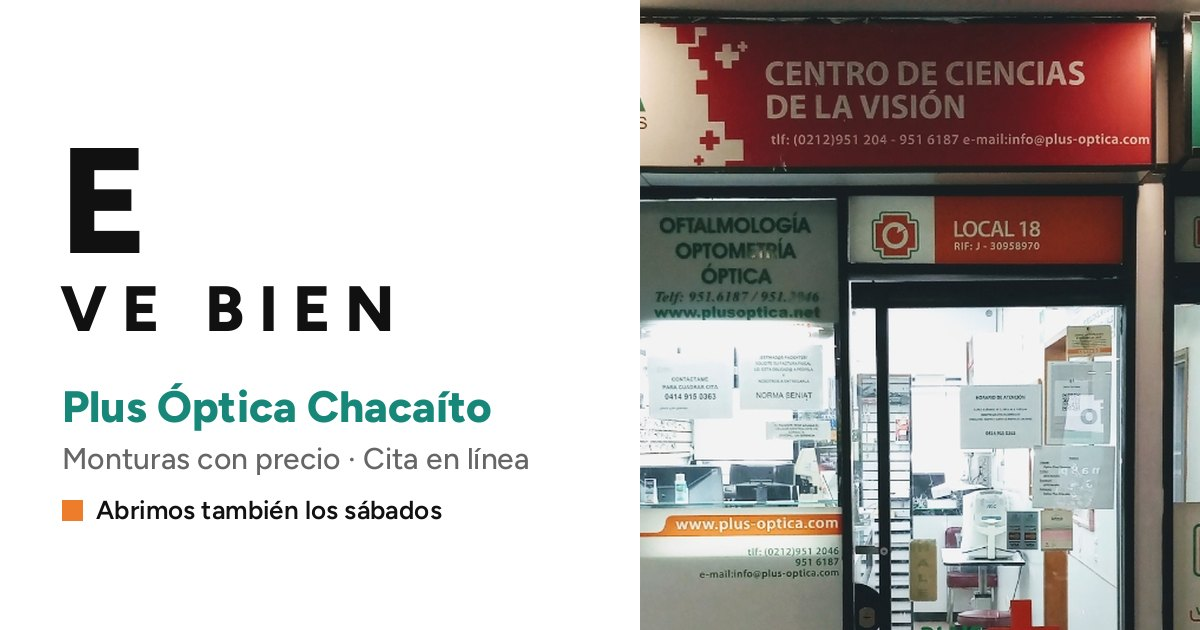
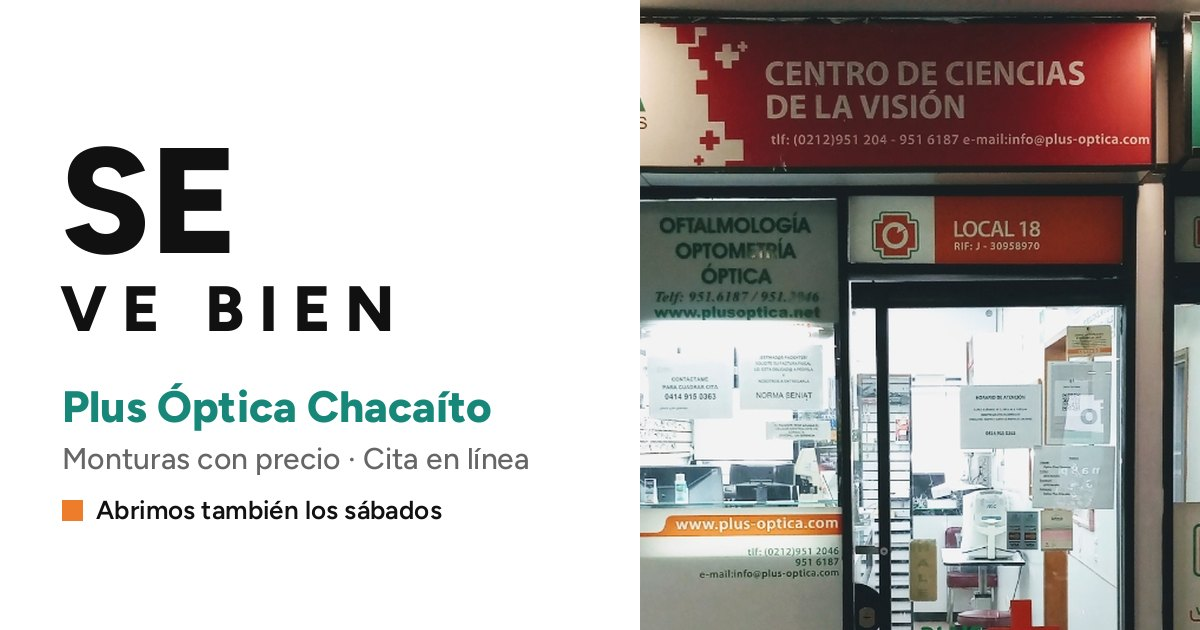
Fidelidad con lo que hace cada negocio, SE VE BIEN y mapa en teléfono

Changed region(s): [[0.0308, 0.2111, 0.2158, 0.4222]]

diff --git a/compincheria/index.html b/compincheria/index.html
@@ -95,6 +95,7 @@ h2{font-size:clamp(2.3rem,6.6vw,4.4rem);line-height:.92;margin-bottom:18px;text-
 .platos span{color:var(--gris);font-size:.93rem;grid-column:1}
 .platos em{font-style:normal;font-weight:600;color:var(--verde2);white-space:nowrap;grid-row:1;grid-column:2;align-self:start;border:1.5px solid var(--verde);border-radius:999px;padding:1px 10px;font-size:.85rem}
 .carta-foto{position:sticky;top:80px}
+@media(max-width:899px){.carta-foto{position:static;width:min(72%,320px);margin:0 auto}}
 .carta-foto .pola{rotate:2deg}
 .pola{background:#fff;padding:12px 12px 44px;box-shadow:0 2px 0 rgba(0,0,0,.08);position:relative}
 .pola div{overflow:hidden;aspect-ratio:4/5}
@@ -182,7 +183,8 @@ h2{font-size:clamp(2.3rem,6.6vw,4.4rem);line-height:.92;margin-bottom:18px;text-
 .horario li.hoy span:first-child:before{content:"Hoy · "}
 dt{font-weight:600;margin-top:16px}
 dd{color:rgba(241,228,207,.85)}
-.mapa{margin-top:44px;border:2px solid var(--crema);border-radius:7px;overflow:hidden;aspect-ratio:16/7;min-height:300px}
+.mapa{margin-top:44px;border:2px solid var(--crema);border-radius:7px;overflow:hidden;height:320px}
+@media(min-width:800px){.mapa{height:auto;aspect-ratio:16/7}}
 .mapa iframe{display:block;width:100%;height:100%;border:0}
 footer{padding:30px 0 90px;font-size:.9rem;color:var(--gris)}
 .demo{margin-top:10px}
@@ -202,6 +204,18 @@ footer{padding:30px 0 90px;font-size:.9rem;color:var(--gris)}
 .bs-total{display:block;font-size:.85rem;opacity:.85;margin-top:4px}
 .hh-cuenta{display:inline-flex;align-items:center;gap:10px;font-weight:600;color:var(--verde);border:2px solid var(--verde);border-radius:7px;padding:10px 14px;margin:-6px 0 26px}
 .hh-cuenta b{font-family:'Bowlby One',sans-serif;font-weight:400}
+.tamanos{grid-template-columns:repeat(2,1fr)}
+@media(min-width:560px){.tamanos{grid-template-columns:repeat(4,1fr)}}
+.proteina{display:grid;grid-template-columns:1fr 1fr;gap:10px;margin-top:10px}
+.proteina button{all:unset;box-sizing:border-box;cursor:pointer;border:2px solid var(--crema);border-radius:7px;padding:10px 12px}
+.proteina button b{display:block;font-weight:600}
+.proteina button span{display:block;font-size:.8rem;opacity:.85}
+.proteina button[aria-pressed="true"]{background:var(--crema);color:var(--verde2)}
+.proteina button:disabled{opacity:.4;cursor:not-allowed}
+.proteina button:focus-visible{outline:3px solid var(--crema);outline-offset:3px}
+.combo-incl{margin-top:12px;font-size:.92rem;border-left:3px solid var(--crema);padding-left:12px}
+.aparte{margin-top:18px;font-size:.88rem;opacity:.85}
+[hidden]{display:none!important}
 </style>
 </head>
 <body>
@@ -219,7 +233,7 @@ footer{padding:30px 0 90px;font-size:.9rem;color:var(--gris)}
 
 <header class="portada" id="inicio">
   <img src="f/terraza.webp" alt="Terraza de Compinchería de noche, con el letrero iluminado" width="1100" height="825">
-  <div class="top"><small>Altamira · Caracas</small><nav aria-label="Atajos"><a class="btn linea" href="#carta">Carta</a><a class="btn" href="#mesa">Reservar</a></nav></div>
+  <div class="top"><small>Altamira · Caracas</small><nav aria-label="Atajos"><a class="btn linea" href="#carta">Carta</a><a class="btn" href="#mesa">Pedir mesa</a></nav></div>
   <div class="sello">
     <div class="pildora display"><h1>Compinchería</h1></div>
     <span class="sub-sello">PINCHOS · BAR</span>
@@ -228,7 +242,7 @@ footer{padding:30px 0 90px;font-size:.9rem;color:var(--gris)}
   <div class="abajo">
     <a class="btn" href="#carta">Ver la carta</a>
     <a class="btn linea" href="#bandeja">Arma tu bandeja</a>
-    <a class="btn linea" href="#mesa">Reservar mesa</a>
+    <a class="btn linea" href="#mesa">Pedir mesa</a>
     <p class="estado" id="estado" aria-live="polite"><i aria-hidden="true"></i><span>4,8 en Google · 738 opiniones</span></p>
   </div>
 </header>
@@ -260,10 +274,13 @@ footer{padding:30px 0 90px;font-size:.9rem;color:var(--gris)}
       <p class="lead" style="margin-bottom:0">Elige cuántos pinchos, tus sides y tus salsas. La bandeja se llena mientras eliges y te dice el total.</p>
     </div>
     <div class="ar-c">
-      <div class="paso"><h3>1. ¿Cuántos pinchos? <small>mixtos de carne, cerdo y pollo</small></h3>
-        <div class="tamanos" role="group" aria-label="Cantidad de pinchos" id="tamanos"></div></div>
-      <div class="paso"><h3>2. Sides <small id="sidesInfo"></small></h3><div class="fichas" id="sides"></div></div>
-      <div class="paso"><h3>3. Salsas de la casa <small id="salsasInfo"></small></h3><div class="fichas" id="salsas"></div></div>
+      <div class="paso"><h3>1. ¿Qué bandeja? <small>las medidas de su carta</small></h3>
+        <div class="tamanos" role="group" aria-label="Tamaño de la bandeja" id="tamanos"></div>
+        <p class="combo-incl" id="comboIncluye" hidden></p></div>
+      <div class="paso"><h3>2. ¿Qué pinchos?</h3><div class="proteina" role="group" aria-label="Tipo de pinchos" id="proteina"></div></div>
+      <div class="paso" id="pasoSides"><h3>3. Sides <small id="sidesInfo"></small></h3><div class="fichas" id="sides"></div></div>
+      <div class="paso" id="pasoSalsas"><h3>4. Salsas de la casa <small id="salsasInfo"></small></h3><div class="fichas" id="salsas"></div></div>
+      <p class="aparte">Las burgers, alitas y demás platos de la carta no van en la bandeja: se piden aparte. Escríbelos en el mensaje.</p>
       <div class="total"><div><b id="total" aria-live="polite">REF 13</b><small class="bs-total" id="totalBs"></small><p id="resumen">x5 pinchos mixtos.</p></div><a class="btn" id="pedirBandeja" href="https://wa.me/PON_AQUI_EL_NUMERO">Pedir por WhatsApp</a></div>
     </div>
     <div class="ar-b">
@@ -279,7 +296,7 @@ footer{padding:30px 0 90px;font-size:.9rem;color:var(--gris)}
       <h2 id="mesa-t2" class="display">Al centro de la mesa.</h2>
       <p class="lead">Bandejas metálicas, papel con su nombre y todo para compartir. Terraza, happy hour en sus mesas y asientos accesibles para silla de ruedas.</p>
       <p class="hh-cuenta" id="hhCuenta" aria-live="polite"></p>
-      <a class="btn verde" href="#mesa">Reservar mesa</a>
+      <a class="btn verde" href="#mesa">Pedir mesa</a>
     </div>
     <div class="muro">
       <figure class="pola a"><div><img src="f/bandeja.webp" alt="Bandeja con pinchos de pollo, papas, ensaladas y salsas" width="1100" height="825" loading="lazy"></div><p>La bandeja para compartir</p></figure>
@@ -292,8 +309,8 @@ footer{padding:30px 0 90px;font-size:.9rem;color:var(--gris)}
 <section id="mesa" aria-labelledby="mesa-t">
   <div class="wrap comanda-sec">
     <div class="comanda">
-      <h2 id="mesa-t" class="display" style="color:var(--verde)">Reserva tu mesa.</h2>
-      <p class="lead">Dinos cuántos compinches vienen y a qué hora. Te confirmamos por WhatsApp.</p>
+      <h2 id="mesa-t" class="display" style="color:var(--verde)">Pide tu mesa.</h2>
+      <p class="lead">Dinos cuántos compinches vienen y a qué hora. El local te confirma por WhatsApp si hay mesa.</p>
       <div class="paso"><h3>¿Cuántos compinches?</h3>
         <div class="contador"><button type="button" id="menos" aria-label="Una persona menos">−</button><output id="cuantos" aria-live="polite">4</output><button type="button" id="mas" aria-label="Una persona más">+</button></div>
         <div class="gente" id="gente" aria-hidden="true"></div></div>
@@ -305,7 +322,7 @@ footer{padding:30px 0 90px;font-size:.9rem;color:var(--gris)}
     </div>
     <aside class="ticket" aria-label="Resumen de tu reserva">
       <p class="display">Compinchería</p>
-      <p class="sub">COMANDA DE MESA</p>
+      <p class="sub">SOLICITUD DE MESA</p>
       <dl>
         <div><dt>Compinches</dt><dd id="tCuantos">4 personas</dd></div>
         <div><dt>Día</dt><dd id="tDia">Elige un día</dd></div>
@@ -313,7 +330,7 @@ footer{padding:30px 0 90px;font-size:.9rem;color:var(--gris)}
         <div><dt>Ocasión</dt><dd id="tOcasion">Sin indicar</dd></div>
         <div><dt>A nombre de</dt><dd id="tNom">Sin indicar</dd></div>
       </dl>
-      <a class="btn verde" id="confirmar" href="https://wa.me/PON_AQUI_EL_NUMERO" aria-disabled="true">Confirmar por WhatsApp</a>
+      <a class="btn verde" id="confirmar" href="https://wa.me/PON_AQUI_EL_NUMERO" aria-disabled="true">Pedir mesa por WhatsApp</a>
       <p class="nota">Demostración: no se envía ningún dato. En la página final la comanda le llega al local.</p>
     </aside>
   </div>
@@ -423,13 +440,19 @@ footer{padding:30px 0 90px;font-size:.9rem;color:var(--gris)}
   CARTA.forEach(function(c,i){var b=el('button','',c.n);b.type='button';b.setAttribute('aria-pressed',i===0?'true':'false');b.addEventListener('click',function(){pest.querySelectorAll('button').forEach(function(x){x.setAttribute('aria-pressed',x===b?'true':'false')});verCat(c);});pest.appendChild(b);});
   verCat(CARTA[0]);
 
-  /* Arma tu bandeja con tamaños, sides y salsas reales */
-  var TAM=[{n:5,p:13,personas:'1 persona',sides:1,salsas:2},{n:9,p:22,personas:'2 personas',sides:2,salsas:3},{n:15,p:35,personas:'3 o 4 personas',sides:3,salsas:4}];
+  /* Arma tu bandeja: solo lo que permite su carta de febrero 2026.
+     Medidas fijas x5, x9, x15 o la Bandeja Compin (combo cerrado). Pinchos mixtos; todos de carne solo con precio a consultar.
+     Las burgers y demás platos no van en la bandeja: se piden aparte. */
+  var TAM=[{t:'x5',n:5,p:13,personas:'1 persona',sides:1,salsas:2},{t:'x9',n:9,p:22,personas:'2 personas',sides:2,salsas:3},{t:'x15',n:15,p:35,personas:'3 o 4 personas',sides:3,salsas:4},
+           {t:'Compin',n:9,p:30,personas:'3 personas',combo:true}];
+  var COMBO_INCL='9 pinchos mixtos, mini tenders de pollo, aros de cebolla, papas fritas, ensalada César y coleslaw.';
   var SIDES=[['Papas fritas','s-papas'],['Aros de cebolla','s-aros'],['Ensalada César','s-cesar'],['Coleslaw','s-coleslaw']];
   var SALSAS=[['BBQ','#5A2E1A'],['Ajo','#F1EAD2'],['Mojo criollo','#E08A2E'],['Tocineta','#D9C79A'],['Ranch','#EDEBDD'],['Parrillera','#C2421E'],['Alemana','#E6E3C8'],['Mermelada de pimentón','#8E1B1B'],['Cheddar','#F2B33D'],['Teriyaki','#4A2A17'],['Guasacaca','#8FAE45'],['Mermelada de cebolla','#5B2B23']];
-  var t=TAM[0],cs={},csa={},prev={n:0,cs:{},csa:{}};
-  var tamanos=document.getElementById('tamanos'),sidesBox=document.getElementById('sides'),salsasBox=document.getElementById('salsas');
-  TAM.forEach(function(x,i){var b=document.createElement('button');b.type='button';b.setAttribute('aria-pressed',i===0?'true':'false');b.appendChild(el('b','','x'+x.n));b.appendChild(el('span','',x.personas+' · '+ref(x.p)));b.addEventListener('click',function(){t=x;tamanos.querySelectorAll('button').forEach(function(y){y.setAttribute('aria-pressed',y===b?'true':'false')});pintarB();});tamanos.appendChild(b);});
+  var t=TAM[0],prot='mixtos',cs={},csa={},prev={k:'',cs:{},csa:{}};
+  var tamanos=document.getElementById('tamanos'),protBox=document.getElementById('proteina'),sidesBox=document.getElementById('sides'),salsasBox=document.getElementById('salsas');
+  TAM.forEach(function(x,i){var b=document.createElement('button');b.type='button';b.setAttribute('aria-pressed',i===0?'true':'false');b.appendChild(el('b','',x.combo?'Compin':x.t));b.appendChild(el('span','',(x.combo?'Bandeja · ':'')+x.personas+' · '+ref(x.p)));b.addEventListener('click',function(){t=x;if(x.combo)prot='mixtos';tamanos.querySelectorAll('button').forEach(function(y){y.setAttribute('aria-pressed',y===b?'true':'false')});pintarB();});tamanos.appendChild(b);});
+  var PROT=[['mixtos','Mixtos','carne, cerdo y pollo'],['carne','Todos de carne','precio a consultar']];
+  function pintarProt(){protBox.innerHTML='';PROT.forEach(function(p){var b=document.createElement('button');b.type='button';b.setAttribute('aria-pressed',prot===p[0]?'true':'false');b.appendChild(el('b','',p[1]));b.appendChild(el('span','',p[2]));if(t.combo&&p[0]==='carne'){b.disabled=true;b.title='La Bandeja Compin viene con pinchos mixtos';}b.addEventListener('click',function(){prot=p[0];pintarB();});protBox.appendChild(b);});}
   function fichas(box,lista,obj){
     box.innerHTML='';
     lista.forEach(function(it){var k=it[0],n=obj[k]||0;var f=el('span','ficha'+(n?' on':''));f.appendChild(document.createTextNode(k));var m=el('button','','−');m.type='button';m.setAttribute('aria-label','Quitar '+k);m.disabled=!n;var p=el('button','','+');p.type='button';p.setAttribute('aria-label','Agregar '+k);
@@ -438,28 +461,38 @@ footer{padding:30px 0 90px;font-size:.9rem;color:var(--gris)}
   }
   function suma(o){var s=0;for(var k in o)s+=o[k];return s}
   function pintarB(){
+    pintarProt();
+    var combo=!!t.combo;
+    document.getElementById('pasoSides').hidden=combo;document.getElementById('pasoSalsas').hidden=combo;
+    var ci=document.getElementById('comboIncluye');ci.hidden=!combo;ci.textContent=combo?'Incluye: '+COMBO_INCL+' Las salsas se eligen al pedir.':'';
+    if(combo){cs={};csa={};}
     fichas(sidesBox,SIDES,cs);fichas(salsasBox,SALSAS,csa);
-    var ns=suma(cs),na=suma(csa),exS=Math.max(0,ns-t.sides),exA=Math.max(0,na-t.salsas);
-    document.getElementById('sidesInfo').textContent=t.sides+(t.sides>1?' incluidos':' incluido')+(exS?' · '+exS+' extra a REF 3':'');
-    document.getElementById('salsasInfo').textContent=t.salsas+' incluidas'+(exA?' · '+exA+' extra a REF 1':'');
+    var ns=suma(cs),na=suma(csa),exS=combo?0:Math.max(0,ns-t.sides),exA=combo?0:Math.max(0,na-t.salsas);
+    if(!combo){
+      document.getElementById('sidesInfo').textContent=t.sides+(t.sides>1?' incluidos':' incluido')+(exS?' · '+exS+' extra a REF 3':'');
+      document.getElementById('salsasInfo').textContent=t.salsas+' incluidas'+(exA?' · '+exA+' extra a REF 1':'');
+    }
+    var carne=prot==='carne'&&!combo;
     var total=t.p+exS*3+exA;
-    document.getElementById('total').textContent=ref(total);
-    document.getElementById('totalBs').textContent=TASA?'≈ '+bs(total)+' a tasa BCV':'';
-    var partes=['x'+t.n+' pinchos mixtos'];
+    document.getElementById('total').textContent=carne?'Precio a consultar':ref(total);
+    document.getElementById('totalBs').textContent=(!carne&&TASA)?'≈ '+bs(total)+' a tasa BCV':(carne?'El local te dice el precio de los pinchos de carne':'');
+    var partes=[combo?'Bandeja Compin':(t.t+' pinchos '+(carne?'todos de carne':'mixtos'))];
     SIDES.forEach(function(s){if(cs[s[0]])partes.push(cs[s[0]]+' × '+s[0].toLowerCase())});
     SALSAS.forEach(function(s){if(csa[s[0]])partes.push(csa[s[0]]+' × salsa '+s[0].toLowerCase())});
-    document.getElementById('resumen').textContent=partes.join(', ')+'.';
-    document.getElementById('pedirBandeja').href=WA+encodeURIComponent('Hola, quiero pedir: '+partes.join(', ')+'. Total aproximado '+ref(total)+'.');
-    document.getElementById('pieBandeja').textContent='x'+t.n+' pinchos · '+t.personas;
+    var faltan=combo?0:Math.max(0,t.sides-ns);
+    document.getElementById('resumen').textContent=partes.join(', ')+'.'+(faltan?' Te falta elegir '+faltan+(faltan>1?' sides incluidos.':' side incluido.'):'');
+    document.getElementById('pedirBandeja').href=WA+encodeURIComponent('Hola, quiero pedir: '+partes.join(', ')+'. '+(carne?'¿Qué precio tiene con todos los pinchos de carne?':'Total aproximado '+ref(total)+'.'));
+    document.getElementById('pieBandeja').textContent=(combo?'Bandeja Compin':t.t+' pinchos')+' · '+t.personas;
     var zp=document.getElementById('zonaP'),ze=document.getElementById('zonaE');zp.innerHTML='';ze.innerHTML='';
     zp.className='zona-pinchos'+(t.n>5?' muchos':'');
-    var tipos=['pincho-carne','pincho-pollo','pincho-cerdo'];
-    var cambioN=t.n!==prev.n,hubo=false;
-    for(var i=0;i<t.n;i++){var s=usar(tipos[i%3],'0 0 200 40',cambioN?'nuevo':'');if(cambioN)s.style.animationDelay=(i*22)+'ms';zp.appendChild(s);}
+    var tipos=carne?['pincho-carne']:['pincho-carne','pincho-pollo','pincho-cerdo'];
+    var clave=t.t+prot,cambio=clave!==prev.k,hubo=false;
+    for(var i=0;i<t.n;i++){var s=usar(tipos[i%tipos.length],'0 0 200 40',cambio?'nuevo':'');if(cambio)s.style.animationDelay=(i*22)+'ms';zp.appendChild(s);}
+    if(combo){['s-papas','s-aros','s-cesar','s-coleslaw'].forEach(function(id,j){var s=usar(id,'0 0 60 60',cambio?'nuevo':'');if(cambio)s.style.animationDelay=(200+j*60)+'ms';ze.appendChild(s);});}
     SIDES.forEach(function(sd){for(var j=0;j<(cs[sd[0]]||0);j++){var nv=j>=(prev.cs[sd[0]]||0);if(nv)hubo=true;ze.appendChild(usar(sd[1],'0 0 60 60',nv?'nuevo':''));}});
     SALSAS.forEach(function(sa){for(var j=0;j<(csa[sa[0]]||0);j++){var nv=j>=(prev.csa[sa[0]]||0);if(nv)hubo=true;var s=usar('s-salsa','0 0 60 60','salsa'+(nv?' nuevo':''));s.style.setProperty('--c',sa[1]);ze.appendChild(s);}});
-    if((hubo||cambioN)&&prev.n){var bj=document.querySelector('.bandeja');bj.classList.remove('golpe');void bj.offsetWidth;bj.classList.add('golpe');if(navigator.vibrate)try{navigator.vibrate(12)}catch(e){}}
-    prev={n:t.n,cs:JSON.parse(JSON.stringify(cs)),csa:JSON.parse(JSON.stringify(csa))};
+    if((hubo||cambio)&&prev.k){var bj=document.querySelector('.bandeja');bj.classList.remove('golpe');void bj.offsetWidth;bj.classList.add('golpe');if(navigator.vibrate)try{navigator.vibrate(12)}catch(e){}}
+    prev={k:clave,cs:JSON.parse(JSON.stringify(cs)),csa:JSON.parse(JSON.stringify(csa))};
   }
   pintarB();
 
@@ -525,13 +558,13 @@ footer{padding:30px 0 90px;font-size:.9rem;color:var(--gris)}
     document.getElementById('tNom').textContent=nom.value.trim()||'Sin indicar';
     var listo=!!(R.dia&&R.hora&&nom.value.trim().length>1&&/^[0-9+ ()-]{7,}$/.test(tel.value.trim()));
     conf.setAttribute('aria-disabled',listo?'false':'true');conf.style.opacity=listo?1:.5;
-    conf.href=WA+encodeURIComponent('Hola, quiero reservar una mesa para '+R.n+' el '+(R.dia?R.dia.txt:'')+' a las '+(R.hora||'')+(R.oc?' ('+R.oc+')':'')+'. A nombre de '+nom.value.trim()+'.');
+    conf.href=WA+encodeURIComponent('Hola, ¿tienen mesa para '+R.n+' el '+(R.dia?R.dia.txt:'')+' a las '+(R.hora||'')+(R.oc?' ('+R.oc+')':'')+'? A nombre de '+nom.value.trim()+'.');
   }
   conf.addEventListener('click',function(e){if(conf.getAttribute('aria-disabled')==='true'){e.preventDefault();e.stopImmediatePropagation();var f=!R.dia?document.querySelector('#dias button'):!R.hora?document.querySelector('#horas button'):nom.value.trim().length<2?nom:tel;if(f)f.focus();}},true);
   pintarGente();
 })();
 </script>
-<a class="flota" id="flota" href="#mesa">Reservar mesa</a>
+<a class="flota" id="flota" href="#mesa">Pedir mesa</a>
 <div class="nodo-franja" aria-hidden="true">Propuesta de diseño · <b>Fernando Romero</b></div>
 <div class="nodo-aviso" id="nodoAviso" role="status" aria-live="polite"></div>
 <script>

diff --git a/plus-optica-chacaito/index.html b/plus-optica-chacaito/index.html
@@ -134,7 +134,8 @@ footer{padding:30px 0 90px;color:var(--gris);font-size:.92rem}
 .mont .tipo{display:block;font-size:.72rem;letter-spacing:.12em;text-transform:uppercase;color:var(--gris);margin-top:14px}
 .mont .tipo+b{margin-top:2px}
 .mont.vacio .img{background:var(--blanco);border:1px dashed #BDBDBD;display:grid;place-items:center;text-align:center;padding:16px;color:var(--gris);font-size:.92rem}
-.mapa{margin-top:40px;border:1px solid var(--tinta);aspect-ratio:16/7;min-height:300px}
+.mapa{margin-top:40px;border:1px solid var(--tinta);height:320px}
+@media(min-width:800px){.mapa{height:auto;aspect-ratio:16/7}}
 .mapa iframe{display:block;width:100%;height:100%;border:0}
 .cita{display:grid;gap:0;border:1px solid var(--tinta)}
 @media(min-width:900px){.cita{grid-template-columns:1fr 1fr}}
@@ -210,8 +211,8 @@ footer{padding:30px 0 90px;color:var(--gris);font-size:.92rem}
   </div></nav>
   <div class="carta" id="inicio">
     <div class="carta-fija">
-      <div class="filas" id="filas" role="img" aria-label="Carta de la vista con las letras E, VE, BIEN, CON, PLUS, ÓPTICA">
-        <span class="f1">E</span><span class="f2">VE</span><span class="f3">BIEN</span><span class="f4">CON</span><span class="f5">PLUS</span><span class="f6">ÓPTICA</span>
+      <div class="filas" id="filas" role="img" aria-label="Carta de la vista que dice: se ve bien con Plus Óptica">
+        <span class="f1">SE</span><span class="f2">VE</span><span class="f3">BIEN</span><span class="f4">CON</span><span class="f5">PLUS</span><span class="f6">ÓPTICA</span>
       </div>
       <p class="pista" id="pista">Baja para enfocar ↓</p>
       <button class="lentes" type="button" id="lentes">Ponte los lentes</button>
@@ -240,7 +241,7 @@ footer{padding:30px 0 90px;color:var(--gris);font-size:.92rem}
   <div class="wrap">
     <p class="etq">Catálogo</p>
     <h2 id="mont">Elige tu montura antes de venir.</h2>
-    <p class="lead">Todas las monturas de la óptica, separadas por tipo y con su precio. Aparta la que te guste y pruébatela en el local.</p>
+    <p class="lead">Todas las monturas de la óptica, separadas por tipo y con su precio. Pregunta por la que te guste y pruébatela en el local.</p>
     <div class="filtros" role="group" aria-label="Tipo de montura" id="filtros"></div>
     <div class="orden"><span id="cuantas" aria-live="polite"></span><button type="button" id="ordenar" aria-pressed="false">Ordenar por precio</button></div>
     <div class="rejilla" id="catalogo"></div>
@@ -403,7 +404,7 @@ a.classList.add('ver');clearTimeout(t);t=setTimeout(function(){a.classList.remov
     lista.forEach(function(m){
       var d=el('div','mont');var im=el('div','img');var i=document.createElement('img');i.src=m.f;i.alt=m.a;i.loading='lazy';im.appendChild(i);d.appendChild(im);
       d.appendChild(el('span','tipo',m.t.map(nombreTipo).join(' · ')));d.appendChild(el('b','',m.n));
-      var f=el('div','fila');f.appendChild(el('small','',m.p==null?'Consultar precio':'$'+m.p));var a=el('a','apartar','Apartar');a.href=WA+encodeURIComponent((m.p==null?'Hola, ¿qué precio tiene la montura ':'Hola, quiero apartar la montura ')+m.n);f.appendChild(a);d.appendChild(f);
+      var f=el('div','fila');f.appendChild(el('small','',m.p==null?'Consultar precio':'$'+m.p));var a=el('a','apartar','Preguntar');a.href=WA+encodeURIComponent((m.p==null?'Hola, ¿qué precio tiene la montura ':'Hola, ¿tienen disponible la montura ')+m.n+'?');f.appendChild(a);d.appendChild(f);
       cat.appendChild(d);
     });
     if(actual!=='todas'&&lista.length<2){

diff --git a/rulos-de-venezuela/index.html b/rulos-de-venezuela/index.html
@@ -124,7 +124,8 @@ footer{padding:30px 0 90px;color:var(--gris);font-size:.92rem}
 .nodo-franja b{color:#8FD3FF}
 .nodo-aviso{position:fixed;left:50%;bottom:64px;transform:translateX(-50%) translateY(20px);z-index:60;max-width:min(92vw,420px);background:#fff;color:#111;font:500 15px/1.4 system-ui,sans-serif;padding:14px 18px;border-radius:14px;box-shadow:0 6px 24px rgba(0,0,0,.28);opacity:0;pointer-events:none;transition:opacity .2s,transform .2s;text-align:center}
 .nodo-aviso.ver{opacity:1;transform:translateX(-50%) translateY(0)}
-.mapa{margin-top:44px;border:1px solid var(--linea);aspect-ratio:16/7;min-height:300px}.mapa iframe{display:block;width:100%;height:100%;border:0;filter:grayscale(1)}
+.mapa{margin-top:44px;border:1px solid var(--linea);height:320px}
+@media(min-width:800px){.mapa{height:auto;aspect-ratio:16/7}}.mapa iframe{display:block;width:100%;height:100%;border:0;filter:grayscale(1)}
 .agenda{border-top:1px solid var(--linea)}
 .ag-fila{display:grid;grid-template-columns:44px minmax(0,1fr);gap:10px;padding:24px 0;border-bottom:1px solid var(--linea)}
 @media(min-width:700px){.ag-fila{grid-template-columns:64px minmax(0,1fr)}}
@@ -327,8 +328,7 @@ footer{padding:30px 0 90px;color:var(--gris);font-size:.92rem}
       <div class="serv"><i>02</i><div><h3>Corte para rizos</h3><p>Respetando la forma natural de cada rizo.</p></div><small>por confirmar</small></div>
       <div class="serv"><i>03</i><div><h3>Hidratación profunda</h3><p>Para rizos secos o maltratados.</p></div><small>por confirmar</small></div>
       <div class="serv"><i>04</i><div><h3>Definición y peinado</h3><p>Rizos definidos y con volumen.</p></div><small>por confirmar</small></div>
-      <div class="serv"><i>05</i><div><h3>Color</h3><p>Pensado para cabello rizado.</p></div><small>por confirmar</small></div>
-      <div class="serv"><i>06</i><div><h3>Asesoría de productos</h3><p>Qué usar según tu tipo de rizo.</p></div><small>por confirmar</small></div>
+      <div class="serv"><i>05</i><div><h3>Asesoría de productos</h3><p>Qué usar según tu tipo de rizo.</p></div><small>por confirmar</small></div>
     </div>
   </div>
 </section>
@@ -405,7 +405,7 @@ a.classList.add('ver');clearTimeout(t);t=setTimeout(function(){a.classList.remov
 (function(){
   var WA='https://wa.me/PON_AQUI_EL_NUMERO?text=';
   function el(t,c,x){var e=document.createElement(t);if(c)e.className=c;if(x!=null)e.textContent=x;return e}
-  var SERV=['Diagnóstico de rizo','Corte para rizos','Hidratación profunda','Definición y peinado','Color'];
+  var SERV=['Diagnóstico de rizo','Corte para rizos','Hidratación profunda','Definición y peinado'];
   var SUG={abierto:'Corte para rizos',cerrado:'Hidratación profunda',afro:'Hidratación profunda'};
   var A={serv:null,dia:null,hora:null,rizo:null};
   var DN=['dom','lun','mar','mié','jue','vie','sáb'],DL=['domingo','lunes','martes','miércoles','jueves','viernes','sábado'],MES=['ene','feb','mar','abr','may','jun','jul','ago','sep','oct','nov','dic'];
